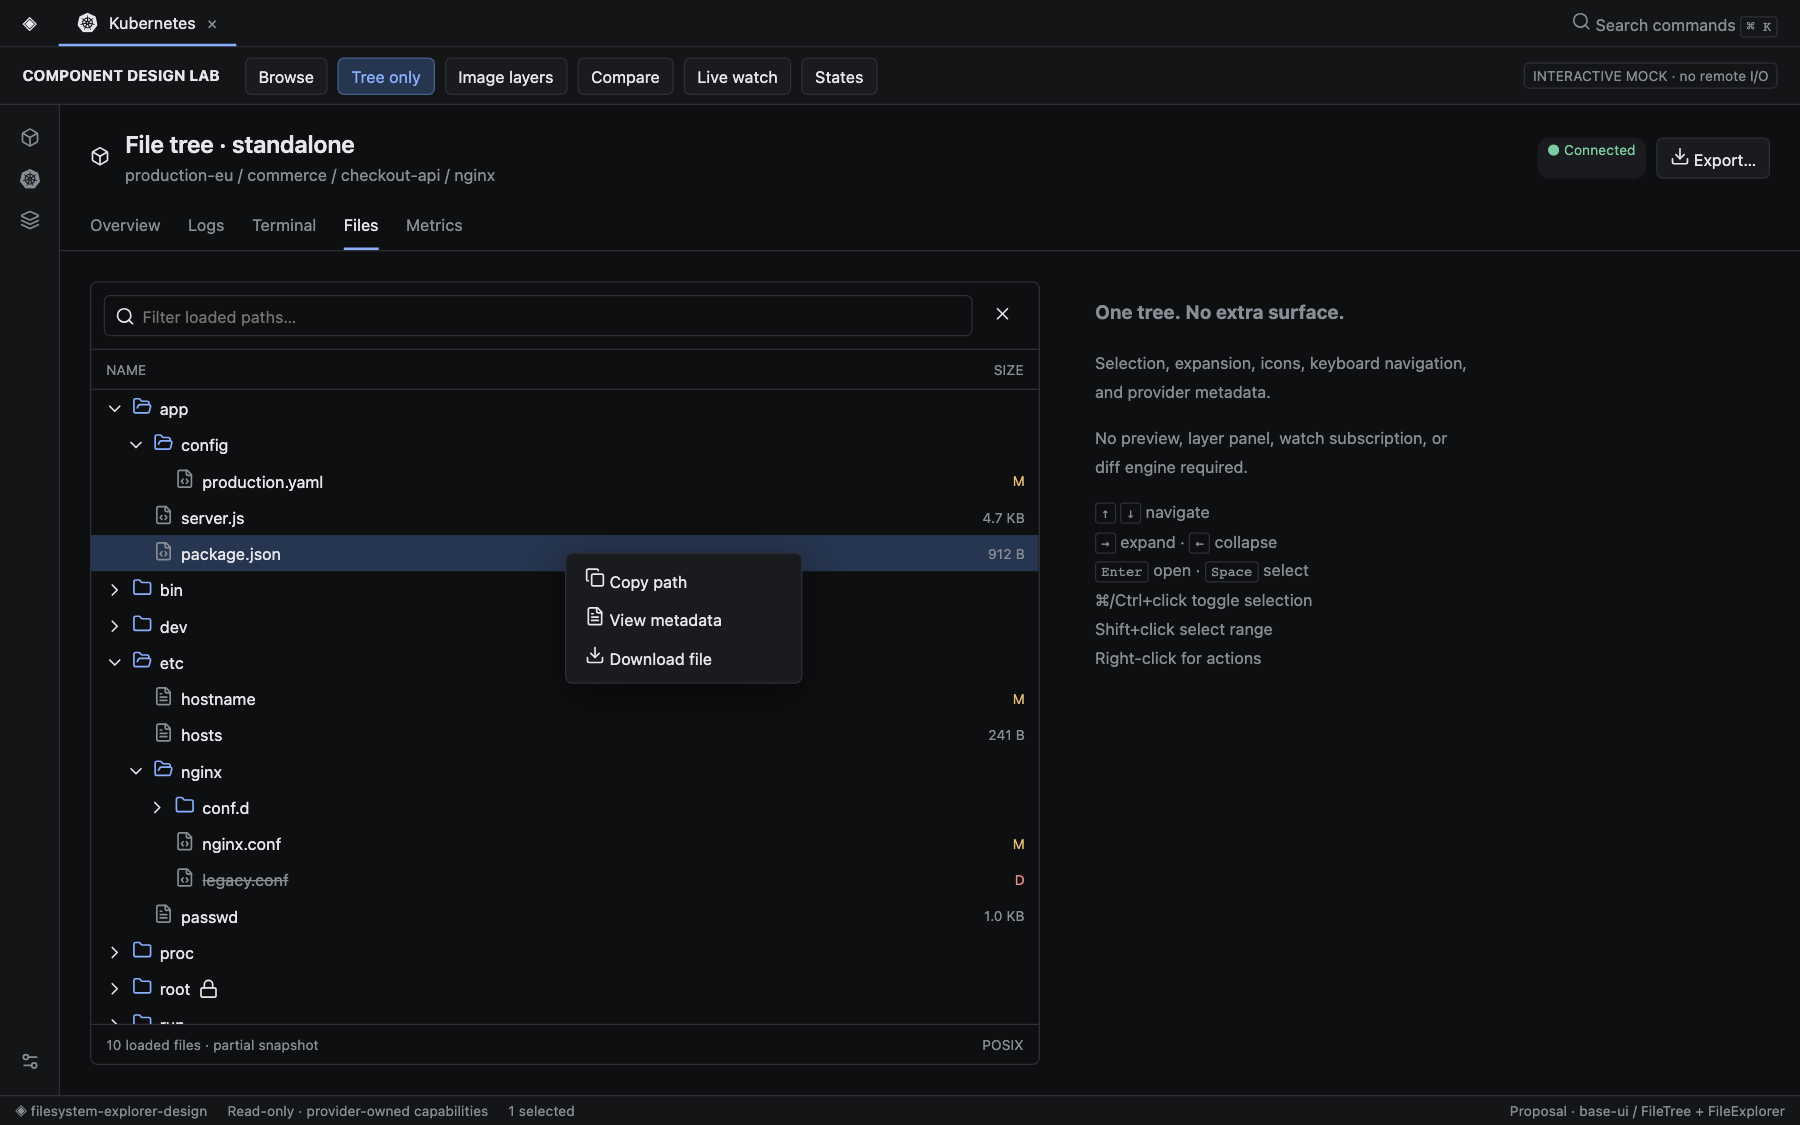
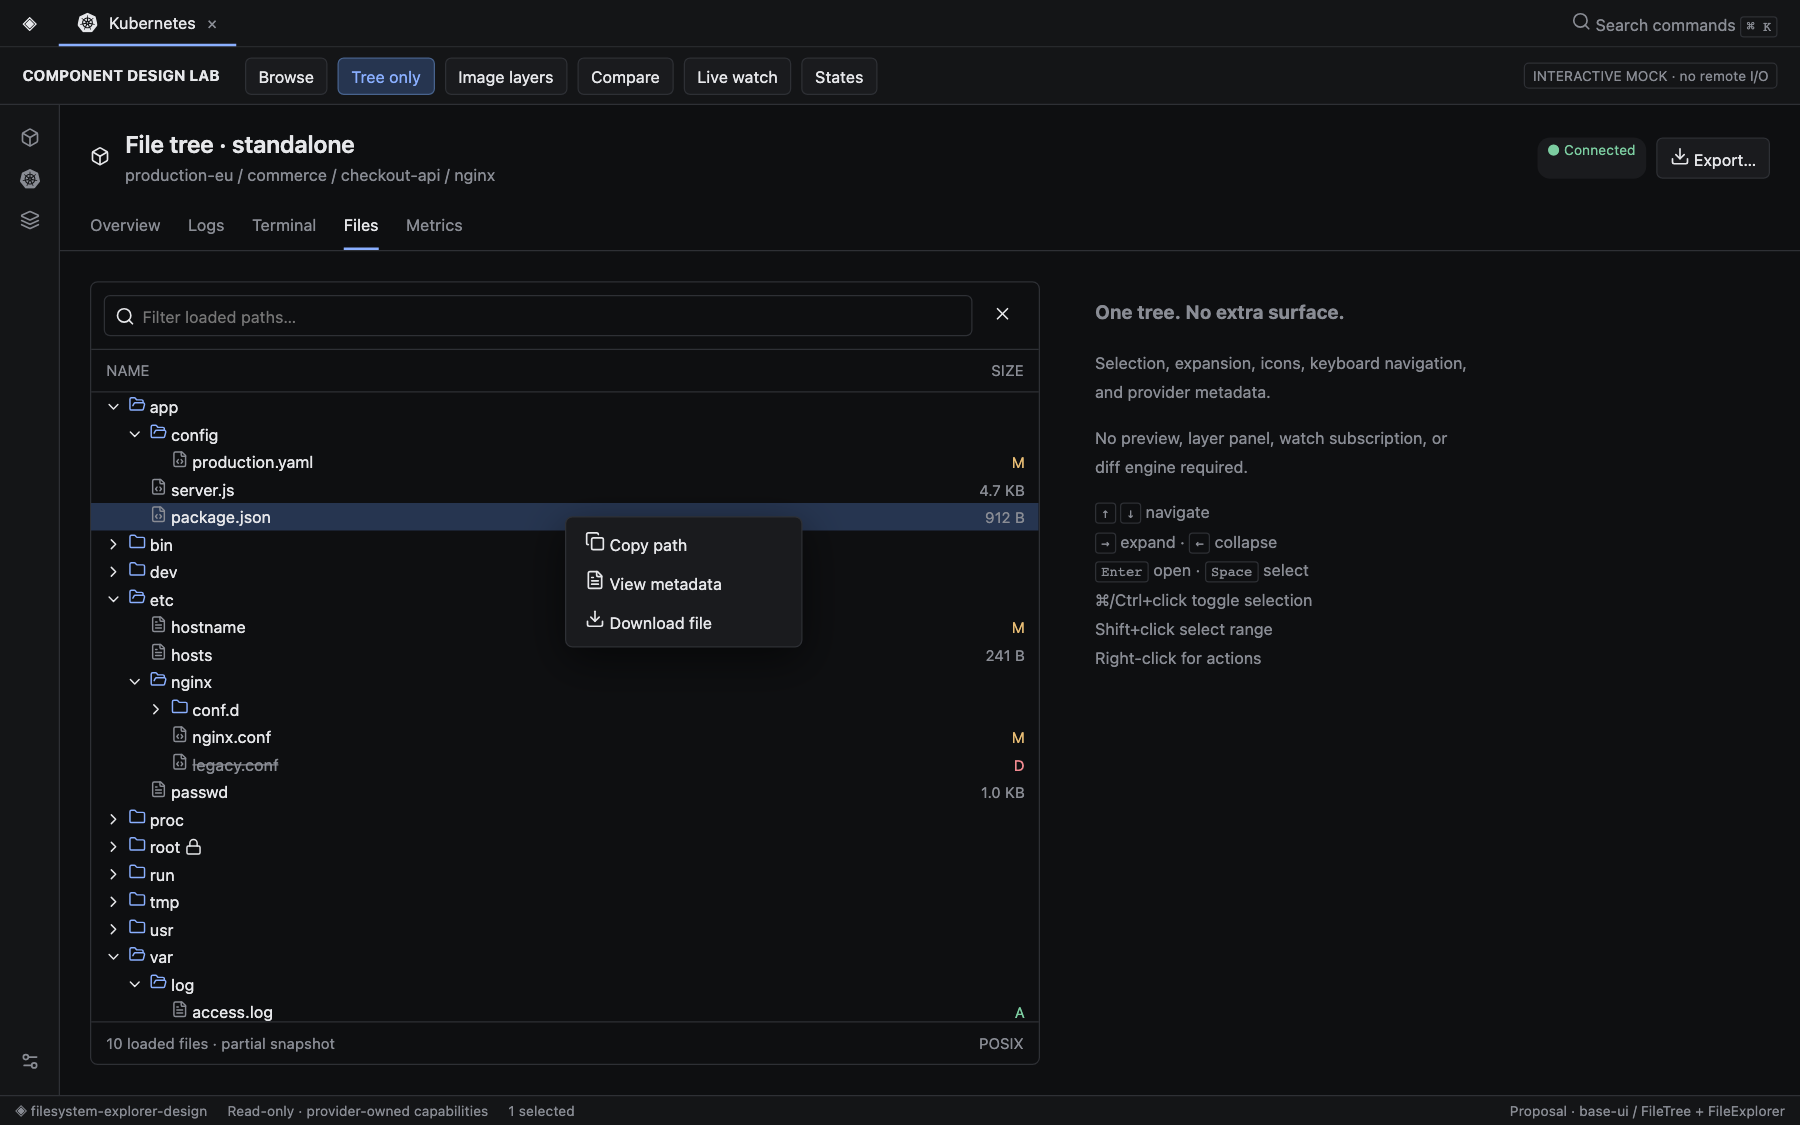
assets: compact explorer desktop density and refresh design evidence

Changed region(s): [[0.0311, 0.3111, 0.5911, 0.9333], [0.5289, 0.9022, 0.56, 0.9333]]

diff --git a/prototype/index.html b/prototype/index.html
@@ -2,6 +2,12 @@
 <html lang="en"><head><meta charset="utf-8"><meta name="viewport" content="width=device-width, initial-scale=1"><title>Omniview · File explorer design lab</title><script src="icons.js"></script><style>
 :root{--bg:#111113;--surface:#18181b;--raised:#202023;--line:#303036;--fg:#ececef;--muted:#9898a3;--accent:#8bafff;--green:#7ccda1;--red:#f18a91;--amber:#e7bc74;--selection:#263550;--tree-width:360px;font:13px -apple-system,BlinkMacSystemFont,"Inter","Segoe UI",sans-serif;color:var(--fg);color-scheme:dark}*{box-sizing:border-box}body{margin:0;background:var(--bg)}button,input,select{font:inherit;color:inherit}button,select{cursor:pointer;background:var(--raised);border:1px solid var(--line);border-radius:5px;padding:6px 10px}button:hover{background:#2b2b32}button:focus-visible,input:focus-visible,select:focus-visible,[tabindex]:focus-visible{outline:2px solid var(--accent);outline-offset:-2px}button.active{background:var(--selection);color:var(--accent);border-color:#48638d}button:disabled{opacity:.45;cursor:not-allowed}button.quiet{background:transparent;border-color:transparent}svg{width:16px;height:16px;vertical-align:middle;flex-shrink:0}.icon{display:inline-flex;align-items:center}.muted{color:var(--muted)}.green{color:var(--green)}.red{color:var(--red)}.amber{color:var(--amber)}.accent{color:var(--accent)}header{height:38px;background:var(--surface);display:flex;align-items:center;gap:18px;padding:0 18px;border-bottom:1px solid var(--line)}header .tab{align-self:stretch;display:flex;align-items:center;gap:9px;border-bottom:2px solid var(--accent);padding:0 15px}header .search{margin-left:auto;color:var(--muted)}.lab{height:46px;display:flex;align-items:center;gap:8px;padding:0 18px;border-bottom:1px solid var(--line);background:var(--surface)}.lab strong{margin-right:12px;font-size:12px}.lab .tag{margin-left:auto}.tag{font-size:11px;border:1px solid var(--line);border-radius:4px;padding:3px 6px;color:var(--muted)}.page{height:calc(100vh - 108px);display:flex}.rail{width:48px;border-right:1px solid var(--line);display:flex;align-items:center;flex-direction:column;gap:17px;padding-top:18px;color:var(--muted);background:var(--surface)}.work{flex:1;min-width:0;display:flex;flex-direction:column}.heading{padding:20px 24px 14px;display:flex;align-items:center;gap:12px}.heading h1{font-size:19px;margin:0 0 6px;font-weight:600}.heading .actions{margin-left:auto;display:flex;gap:8px}.subnav{display:flex;gap:22px;border-bottom:1px solid var(--line);padding:0 24px}.subnav span{padding:10px 0;color:var(--muted)}.subnav .on{color:var(--fg);border-bottom:2px solid var(--accent)}.toolbar{padding:10px 16px;display:flex;gap:8px;align-items:center;border-bottom:1px solid var(--line)}.toolbar .push{margin-left:auto}.notice{padding:9px 18px;background:#242216;border-bottom:1px solid #51452b;color:var(--amber);display:flex;align-items:center;gap:9px}.scope{padding:9px 18px;border-bottom:1px solid var(--line);display:flex;align-items:center;gap:10px;color:var(--muted)}.scope strong{color:var(--fg)}.body{display:flex;flex:1;min-height:0}.layers{width:265px;flex-shrink:0;border-right:1px solid var(--line);background:var(--surface);padding:15px 10px;overflow:auto}.eyebrow{font-size:10px;font-weight:650;letter-spacing:.09em;color:var(--muted);padding:4px 8px 12px}.layer{display:block;width:100%;text-align:left;margin-bottom:7px;padding:12px 10px;background:transparent}.layer b{display:block;margin:7px 0;font:12px ui-monospace,SFMono-Regular,monospace}.layer small{color:var(--muted)}.summary{padding:15px 8px;border-top:1px solid var(--line);line-height:1.9}.treepane{width:var(--tree-width);min-width:230px;display:flex;flex-direction:column;flex-shrink:0}.treepane.only{flex:1;max-width:760px;margin:24px;border:1px solid var(--line);border-radius:6px}.filter{padding:10px;display:flex;gap:5px;border-bottom:1px solid var(--line)}.filterbox{background:var(--bg);border:1px solid var(--line);border-radius:5px;display:flex;align-items:center;gap:6px;padding:0 8px;flex:1;min-width:0}.filterbox input{width:100%;min-width:0;background:transparent;border:0;padding:7px 0;outline:none}.treehead{display:flex;justify-content:space-between;padding:9px 12px;color:var(--muted);font-size:11px;border-bottom:1px solid var(--line)}.tree{overflow:auto;flex:1;position:relative;outline:none}.row{height:29px;display:flex;align-items:center;gap:6px;padding-right:10px;white-space:nowrap;cursor:default;border:1px solid transparent}.row:hover{background:var(--raised)}.row.selected{background:var(--selection)}.row:focus-visible{border-color:var(--accent);outline:0}.row .name{overflow:hidden;text-overflow:ellipsis}.row .stat{margin-left:auto;font-size:11px}.row.deleted .name{text-decoration:line-through;color:var(--muted)}.row .chev{width:16px;display:inline-flex}.treefoot{padding:9px 12px;border-top:1px solid var(--line);color:var(--muted);font-size:11px;display:flex;justify-content:space-between}.split{width:5px;cursor:col-resize;border-left:1px solid var(--line);background:var(--bg);flex-shrink:0}.split:hover,.split:focus{background:var(--accent)}.preview{flex:1;min-width:0;display:flex;flex-direction:column;background:var(--bg)}.previewhead{display:flex;align-items:center;gap:9px;padding:12px 16px;border-bottom:1px solid var(--line);height:43px}.previewhead button{margin-left:auto}.crumb{padding:12px 18px;color:var(--muted);border-bottom:1px solid var(--line);font-size:12px}.code{overflow:auto;flex:1;padding:20px 0;font:12px/1.9 ui-monospace,SFMono-Regular,Consolas,monospace}.line{white-space:pre;display:flex;min-height:23px}.ln{width:47px;flex-shrink:0;color:#676774;text-align:right;padding-right:16px;user-select:none}.line.add{background:#173427;color:#b4e3c7}.line.remove{background:#3b2229;color:#f2b9be}.comment{color:#777f8b}.kv{display:grid;grid-template-columns:110px 1fr;gap:10px;padding:18px;border-top:1px solid var(--line);font-size:12px}.kv dt{color:var(--muted)}.kv dd{margin:0;overflow-wrap:anywhere}.empty{padding:50px 28px;color:var(--muted);text-align:center;line-height:1.8}.empty h2{font-size:15px;color:var(--fg)}.activity{border-top:1px solid var(--line);background:var(--surface);padding:12px 18px;font-size:12px;line-height:1.9}.activity .event{display:flex;gap:15px}.activity time{color:var(--muted)}footer{height:24px;display:flex;align-items:center;gap:16px;padding:0 12px;border-top:1px solid var(--line);color:var(--muted);font-size:11px;background:var(--surface)}footer span:last-child{margin-left:auto}.modalback{position:fixed;inset:0;background:#0008;display:grid;place-items:center;pointer-events:auto}.modal{width:480px;background:var(--surface);border:1px solid var(--line);border-radius:9px;box-shadow:0 18px 70px #0009;padding:24px}.modal h2{font-size:17px;margin-top:0}.modal p{color:var(--muted);line-height:1.7}.modal .buttons{display:flex;gap:8px;justify-content:flex-end;margin-top:22px}.menu{position:fixed;min-width:190px;background:var(--raised);border:1px solid var(--line);box-shadow:0 10px 35px #0008;border-radius:6px;padding:5px;pointer-events:auto}.menu button{display:block;text-align:left;width:100%;border:0;background:transparent}.hint{padding:20px;color:var(--muted);line-height:1.8;max-width:340px}#layer{position:fixed;inset:0;pointer-events:none}kbd{font:11px ui-monospace,monospace;border:1px solid var(--line);border-radius:3px;padding:1px 4px}.toggle{display:flex;align-items:center;gap:6px;font-size:12px}.pill{border-radius:10px;background:var(--raised);padding:3px 8px;font-size:11px}.diffbar{display:flex;justify-content:space-between;padding:9px 18px;border-bottom:1px solid var(--line);font-size:11px}.diffcols{display:flex;flex:1;min-height:0}.diffcols .code{width:50%;border-right:1px solid var(--line)}@media(max-width:1000px){.layers{width:210px}.heading{padding:12px}.lab{gap:3px;padding:0 6px}.lab button{font-size:11px;padding:6px}.lab .tag{display:none}.kv{grid-template-columns:80px 1fr}.heading .muted{font-size:11px}}@media(prefers-reduced-motion:reduce){*{animation:none!important}}
 :root{--bg:#0e0f11;--surface:#141517;--raised:#1a1b1e;--line:#2e3035;--fg:#e6e7ea;--muted:#898c94;--accent:#8aafff}
+/* Explorer-scoped compact defaults mirror TreeList density="compact" size="sm". */
+.work{--explorer-font-size:13px;--explorer-row-height:22px;--explorer-icon-size:14px;font-size:var(--explorer-font-size)}
+.row{height:var(--explorer-row-height);min-height:var(--explorer-row-height);gap:3px;font-size:var(--explorer-font-size);line-height:1.25}
+.row svg{width:var(--explorer-icon-size);height:var(--explorer-icon-size)}
+.row .stat,.treehead,.treefoot,.crumb,.kv,.activity{font-size:12px}
+@media(max-width:700px){.work{--explorer-row-height:34px;--explorer-icon-size:16px}}
 @media(max-width:700px){header{padding:0 10px}header .search{font-size:10px}.lab{height:auto;min-height:90px;flex-wrap:wrap;padding:8px}.lab strong{width:100%;font-size:10px}.lab button{min-height:36px}.page{height:auto;min-height:calc(100dvh - 152px)}.rail{display:none}.work{overflow:hidden}.heading{flex-wrap:wrap;gap:8px}.heading h1{font-size:15px;max-width:calc(100vw - 60px);overflow-wrap:anywhere}.heading .actions{width:100%;margin:0}.subnav{padding:0 12px;gap:18px;font-size:11px;overflow:auto}.toolbar{flex-wrap:wrap;padding:8px;gap:6px}.toolbar button,.toolbar label{min-height:36px}.toolbar .push{display:none}.scope{flex-wrap:wrap;font-size:11px}.body{flex-direction:column;min-height:0}.layers{width:100%;height:230px;border-right:0;border-bottom:1px solid var(--line);padding:8px;display:flex;flex-wrap:wrap;gap:6px;align-content:flex-start}.layers .eyebrow{width:100%;padding:4px}.layer{width:calc(50% - 3px);padding:6px;margin:0}.layer b{font-size:10px;white-space:normal}.layer small{font-size:10px}.summary{width:100%;padding:3px;border:0;line-height:1.3;font-size:11px}.summary p{display:none}.treepane,.treepane.only{width:100%;min-width:0;max-width:none;flex:none;margin:0;border-radius:0;height:340px}.tree{min-height:180px}.row{height:34px}.split{height:5px;width:100%;cursor:row-resize}.preview{min-height:430px}.previewhead{flex-shrink:0}.code{min-height:280px}.diffcols{overflow:auto}.diffcols .code{min-width:300px}.kv{font-size:11px;padding:12px;gap:7px}.hint{padding:12px}.modal{width:calc(100vw - 28px);padding:18px}.notice{flex-wrap:wrap}.activity{font-size:11px}.activity>div:first-child{flex-wrap:wrap}.activity .event{gap:8px;flex-wrap:wrap}footer{position:static;height:auto;min-height:24px;flex-wrap:wrap;padding:6px;gap:6px;font-size:9px}footer span:last-child{margin-left:0}}
 </style></head><body><div id="main"></div><div id="layer"></div><script>
 'use strict';

diff --git a/design.md b/design.md
@@ -8,6 +8,24 @@ Build two reusable surfaces: `FileTree` and compound `FileExplorer`. Reuse exist
 
 The interactive HTML demonstrates component behavior with explicit local fixtures. The eventual React implementation must not copy its full-DOM rerender strategy, path-based fixture identity, or hardcoded content. Prototype is a design artifact, not production scaffolding.
 
+## Density revision
+
+Desktop defaults are compact across standalone, browsing, layer, comparison, and live-watch trees. Keep this choice local to the explorer rather than changing global theme typography.
+
+| Surface | Desktop default | Phone presentation |
+| --- | --- | --- |
+| File rows | 22px | 34px, unchanged for touch |
+| Filenames and explorer body | 13px | 13px |
+| Secondary metadata | 12px | Existing narrow-layout overrides retained |
+| Row icons | 14px | 16px |
+| Icon/label gap | 3px | 3px |
+
+Use existing `TreeList.Root density="compact" size="sm"` in the eventual React implementation. Compact density sets the 22px minimum row height and tighter gaps; small size selects the existing 13px typography. Theme body text otherwise defaults to 14px. Explorer metadata uses the existing 12px caption token. Keep independent density and size controls available for consumer needs.
+
+The initial mock already used 13px inherited body text; this revision makes that explorer default explicit instead of falsely claiming a font reduction. Row height changes from 29px to 22px on desktop.
+
+Virtualization must use the effective row height, including density and responsive changes. The existing hardcoded 36px estimate is an implementation acceptance blocker for compact virtualized trees, not fixed by this HTML mock. Scope that repair to existing TreeList rather than introducing another virtualizer. No production component code changes are part of this design revision.
+
 ## Component boundaries
 
 | Surface | Owns | Does not own |
@@ -97,7 +115,7 @@ These are requirements, not measured results:
 6. Preserve keyboard active row under virtualization; provide `aria-level`, `aria-posinset`, `aria-setsize`, and unknown totals honestly.
 7. Before implementation acceptance, measure 100k cached nodes with 50k visible, deep chains, wide sibling sets, and burst updates. Record mounted rows, frame latency, filtering latency, allocations, and retained heap. Establish budgets on the chosen reference device before claiming optimization.
 
-Existing `TreeList` has declared virtualization parameters that are not fully wired through: viewport estimate is hardcoded to 36 and overscan is omitted. Its viewport subscribes broadly. Repair those seams within existing primitives if needed; do not advertise current behavior as already optimized for this feature.
+Existing `TreeList` has declared virtualization parameters that are not fully wired through: viewport estimate is hardcoded to 36 and overscan is omitted. Its viewport subscribes broadly. Before accepting compact virtualized explorer implementation, wire effective density-aware row estimates and overscan through the existing primitive; verify keyboard reveal and scrolling without gaps at both desktop and phone sizes. Do not advertise current behavior as already optimized for this feature.
 
 ## Visual and interaction acceptance
 

diff --git a/inventory.md b/inventory.md
@@ -402,11 +402,13 @@ Theme provider accepts `themeId`, fallback, registry, root element, initial dens
 
 Theme density is `compact | comfortable`; tree also has its own `default` density option.
 
-Tree compact rows use 22px semantic height. Tree default rows follow density-overridden medium tokens.
+Tree compact rows use 22px semantic height. Tree default rows follow density-overridden medium tokens. `TreeList.Root` accepts `density="compact"` independently of `size="sm"`; small size applies 13px item text, while the body token defaults to 14px and caption token to 12px. Sources: `TreeList.module.css:35-43,54-58,145-153`, `types.ts:198`, and `theme/styles.css:91-95,120-121,386-390`.
 
 **Recommendation**
 
 Use semantic tokens, not copied palette values. Test mock layouts across light, dark, and high-contrast designs.
+
+Explorer decision: use compact density plus small size for desktop (22px rows, 13px text, 14px icons). Keep 12px desktop secondary metadata. Retain 34px mock phone rows and 16px phone icons. This is component-scoped styling, not a global theme change. The existing 36px virtualization estimate must be wired to effective row height before compact virtualized production acceptance.
 
 Use `--ov-font-mono` for paths and metadata. DiffViewer currently references `--ov-font-family-mono` with monospace fallback.
 

diff --git a/research.md b/research.md
@@ -212,6 +212,7 @@ Provider defines case sensitivity and path rules. Remote Linux paths must not in
 **Recommendation:**
 
 - Use fixed-height, single-line rows by default.
+- Adopt compact desktop density using existing base-ui TreeList controls: `density="compact"` and `size="sm"`. Local source defines 22px minimum rows and 13px small-item text; use 12px caption metadata and 14px row icons. These dimensions are an Omniview design choice, not a claim about VS Code dimensions. Preserve the mock's 34px phone rows and 16px icons. Ensure virtualized estimates track effective density instead of the existing hardcoded 36px estimate.
 - Virtualize large visible projections, not every small tree automatically.
 - Flatten expanded branches only; avoid rebuilding collapsed subtrees.
 - Update affected parents and rows using stable IDs.
